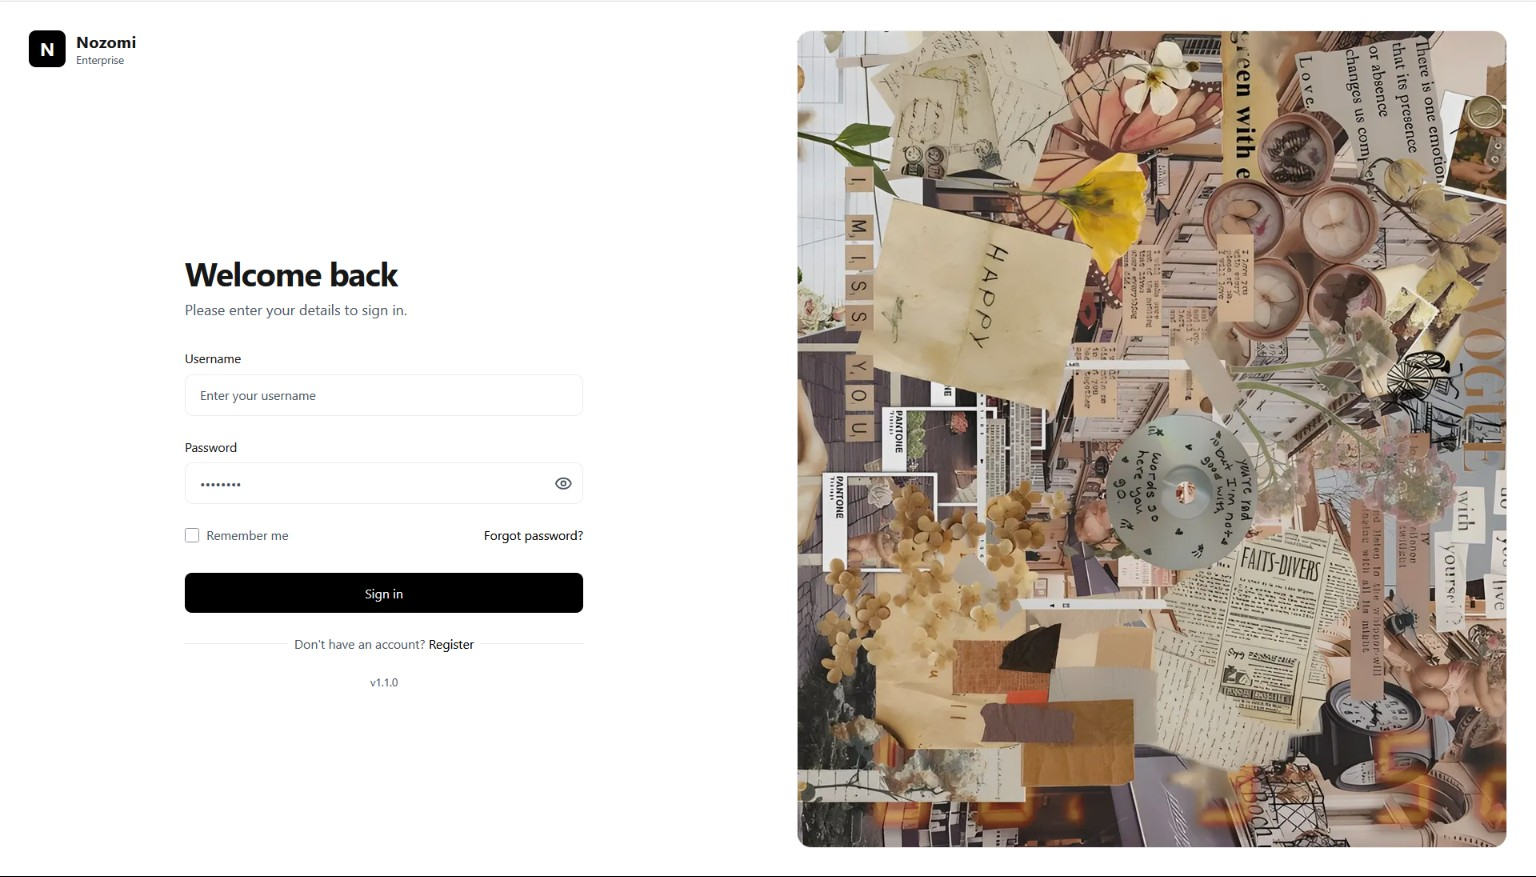
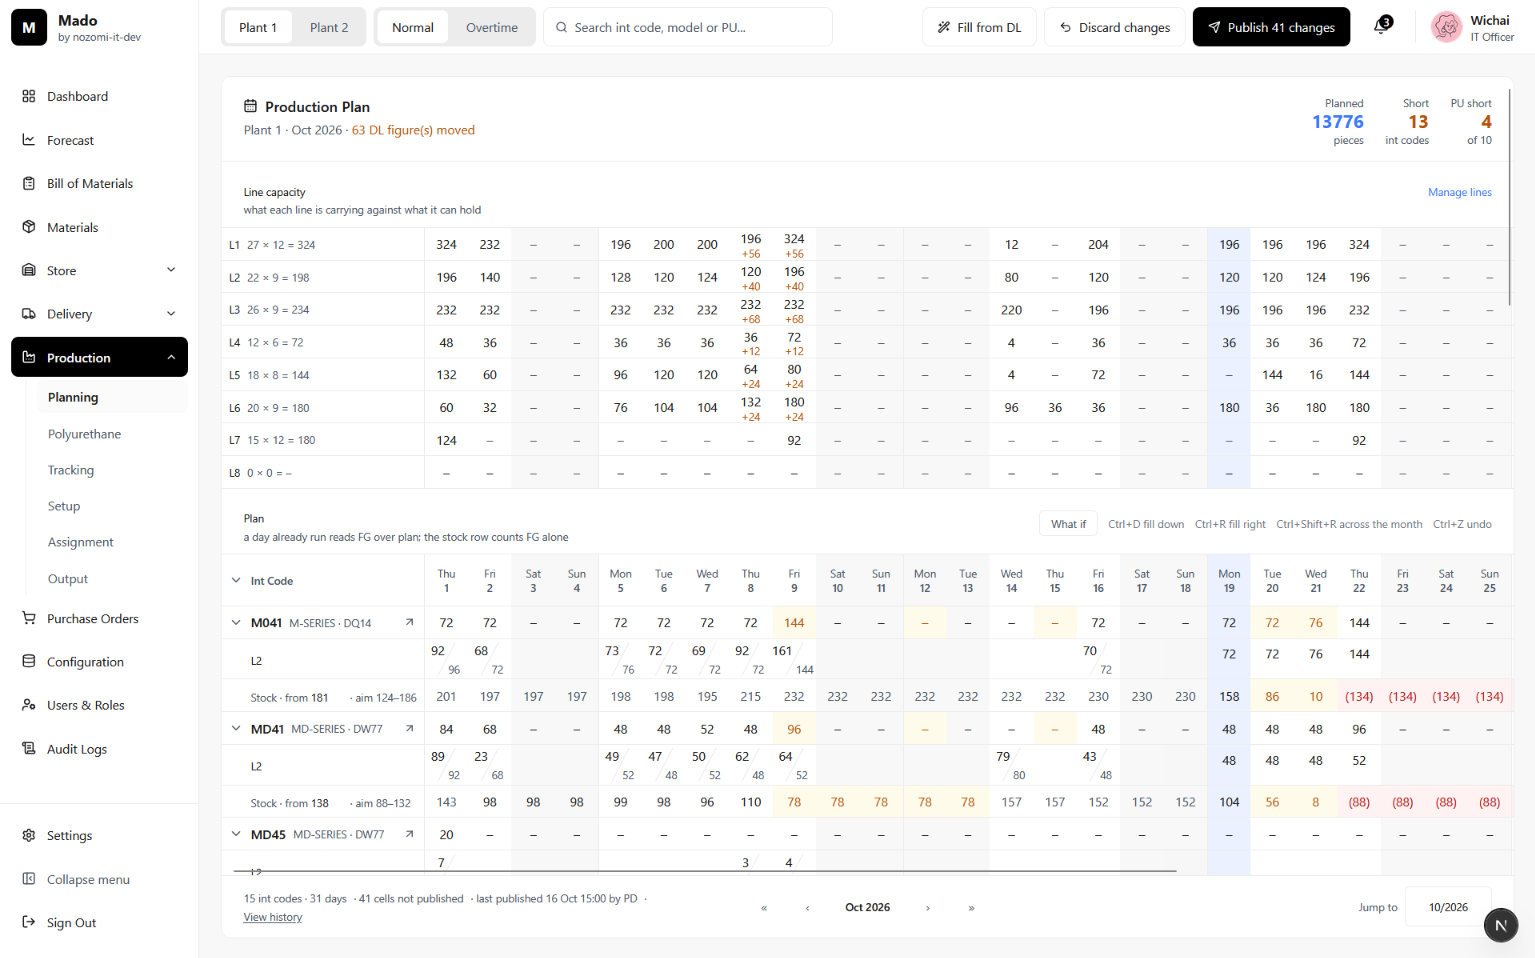
Show the ERP production plan instead of the login screen
The card shows a crop of the plan grid (planned vs actual); the dialog
shows the full screen. Projects take an optional thumb for the card.

diff --git a/lib/content.ts b/lib/content.ts
@@ -1,6 +1,7 @@
 export type Project = {
   title: string;
   image: string;
+  thumb?: string;
   ratio: string;
   tags: string[];
   fav?: boolean;
@@ -11,7 +12,7 @@ export type Project = {
 };
 
 export const PROJECTS: Project[] = [
-  { title: 'Factory ERP', image: '/projects/Enterprise Resource Planning.png', ratio: '7/4', tags: ['Next.js', 'PostgreSQL'], fav: true,
+  { title: 'Factory ERP', image: '/projects/Enterprise Resource Planning.png', thumb: '/projects/Enterprise Resource Planning Card.png', ratio: '602/315', tags: ['Next.js', 'PostgreSQL'], fav: true,
     summary: 'Every department working from the same data.',
     problem: 'Each department kept its own Excel files, so the same product had different numbers depending on who you asked.',
     solution: 'Built a central system single-handedly: 14 modules, seven for department work from bill of materials and purchasing to production, store and delivery, and the rest for sign-in, user roles, settings and a record of who changed what. Bill of materials, marketing, purchasing and production are in daily use; delivery and store are being built. Developed with AI agents (Claude Code), kept on track by written architecture and decision records, project rules, checks that block a commit when they fail, and specialist subagents for review, database, UI and tests.',

diff --git a/components/Work.tsx b/components/Work.tsx
@@ -68,7 +68,8 @@ export default function Work() {
   const renderProject = (i: number) => {
     const p = PROJECTS[i];
     const t = TILTS[i % TILTS.length];
-    const s = src(p.image);
+    const card = p.thumb ?? p.image;
+    const s = src(card);
     const alt = `${p.title} — diagram`;
     const [rw, rh] = p.ratio.split('/').map(Number);
     return (
@@ -94,10 +95,10 @@ export default function Work() {
           <div className="card-num">PROJECT {pad(i + 1)}</div>
           <div className="card-body">
             {s ? (
-              <Image className="card-img" src={s} alt={alt} width={rw * 100} height={rh * 100} sizes="(max-width: 700px) 100vw, (max-width: 1000px) 50vw, 33vw" onError={fail(p.image)} />
+              <Image className="card-img" src={s} alt={alt} width={rw * 100} height={rh * 100} sizes="(max-width: 700px) 100vw, (max-width: 1000px) 50vw, 33vw" onError={fail(card)} />
             ) : (
               <div className="card-img placeholder" role="img" aria-label={alt} style={{ aspectRatio: p.ratio }}>
-                <span>{p.image || 'image coming soon'}</span>
+                <span>{card || 'image coming soon'}</span>
               </div>
             )}
             <div className="card-text">
